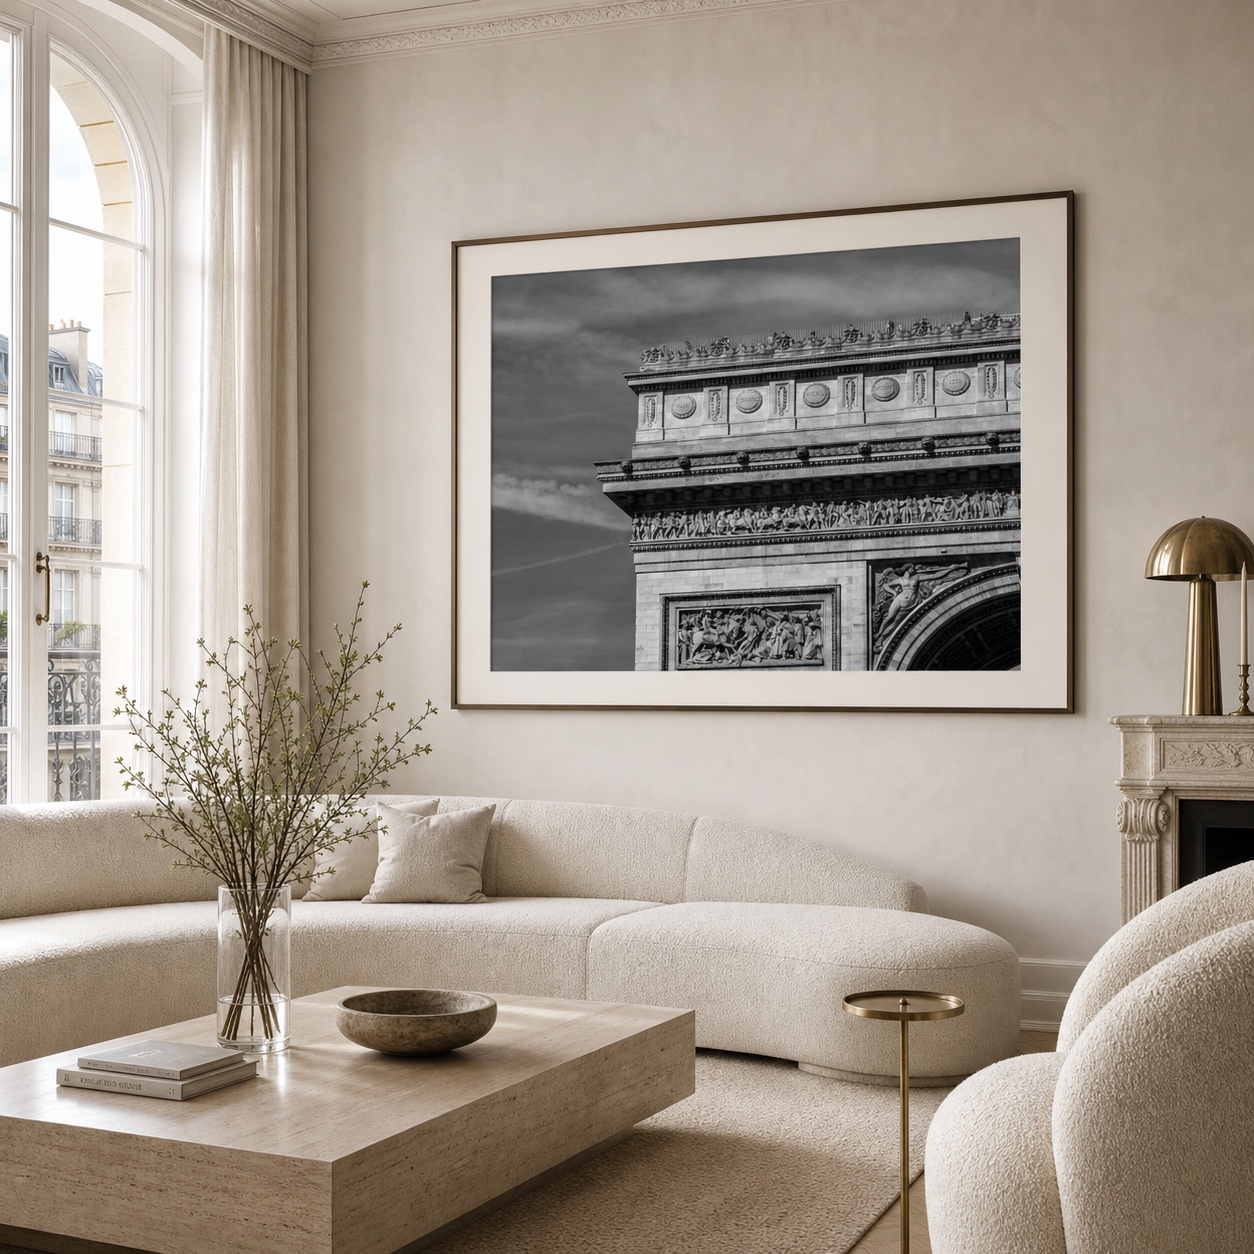
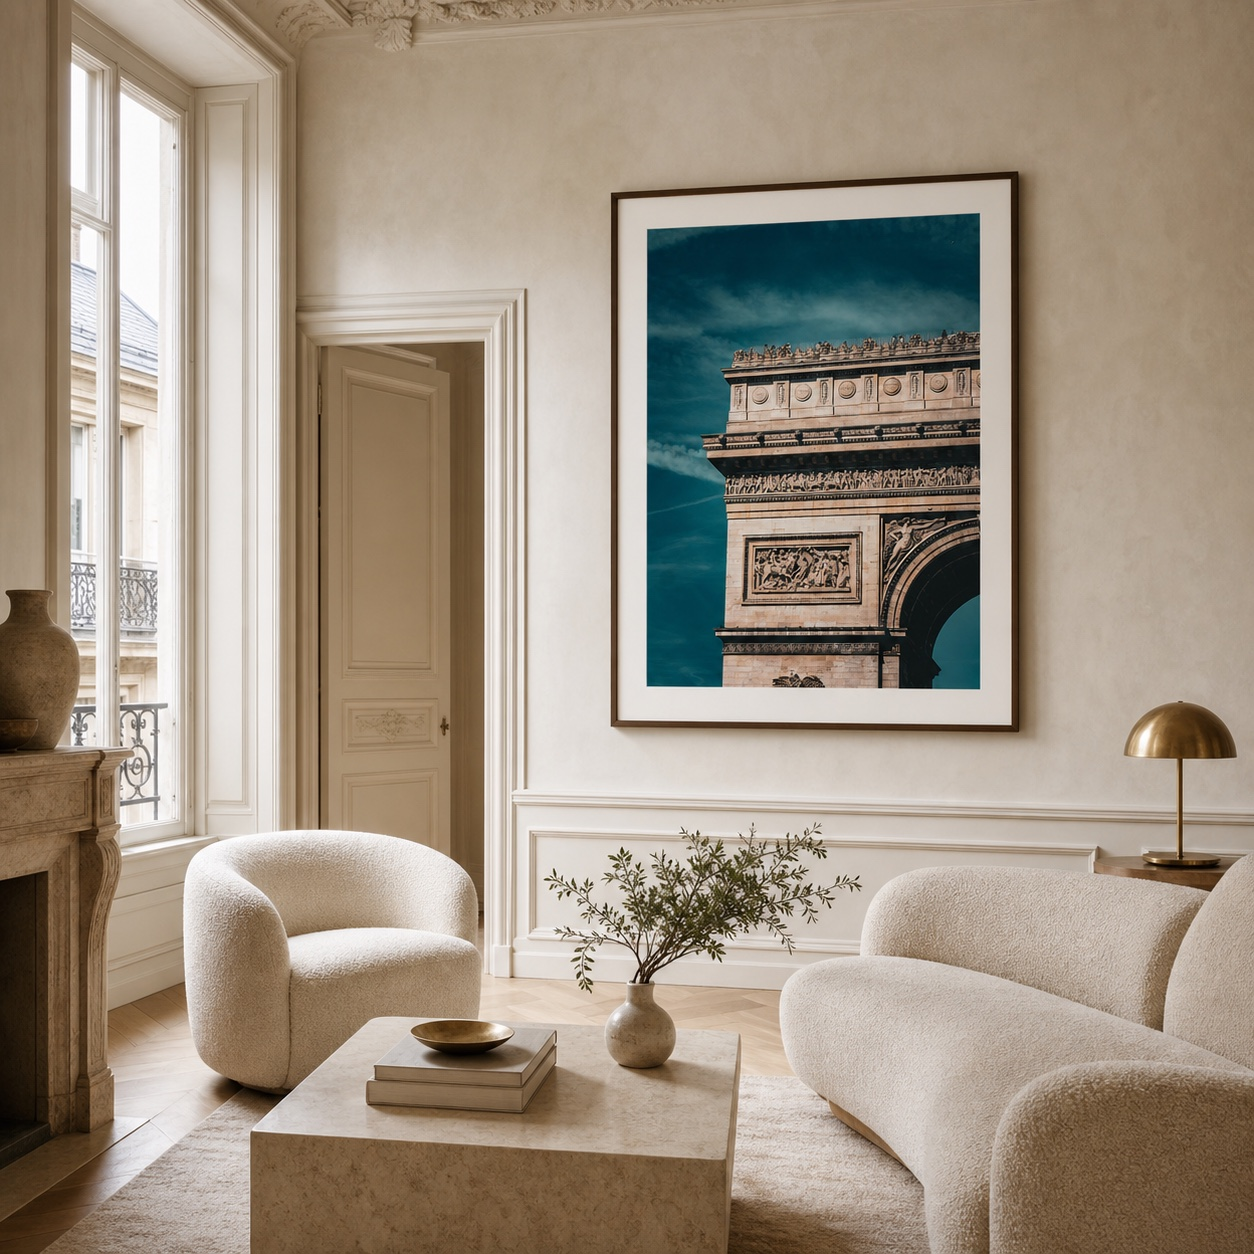
Replace Arc Against the Storm artwork

diff --git a/src/data/catalog.ts b/src/data/catalog.ts
@@ -281,7 +281,7 @@ const parisArtworks: Artwork[] = [
     slug: "arc-against-the-storm",
     title: "Arc Against the Storm",
     location: "Place Charles de Gaulle",
-    image: "/images/paris/paris-6.jpg",
+    image: "/images/paris/arc-against-the-storm.jpg",
     description:
       "The Arc de Triomphe stands in stark monochrome beneath a gathering storm.",
     orientation: "portrait",
